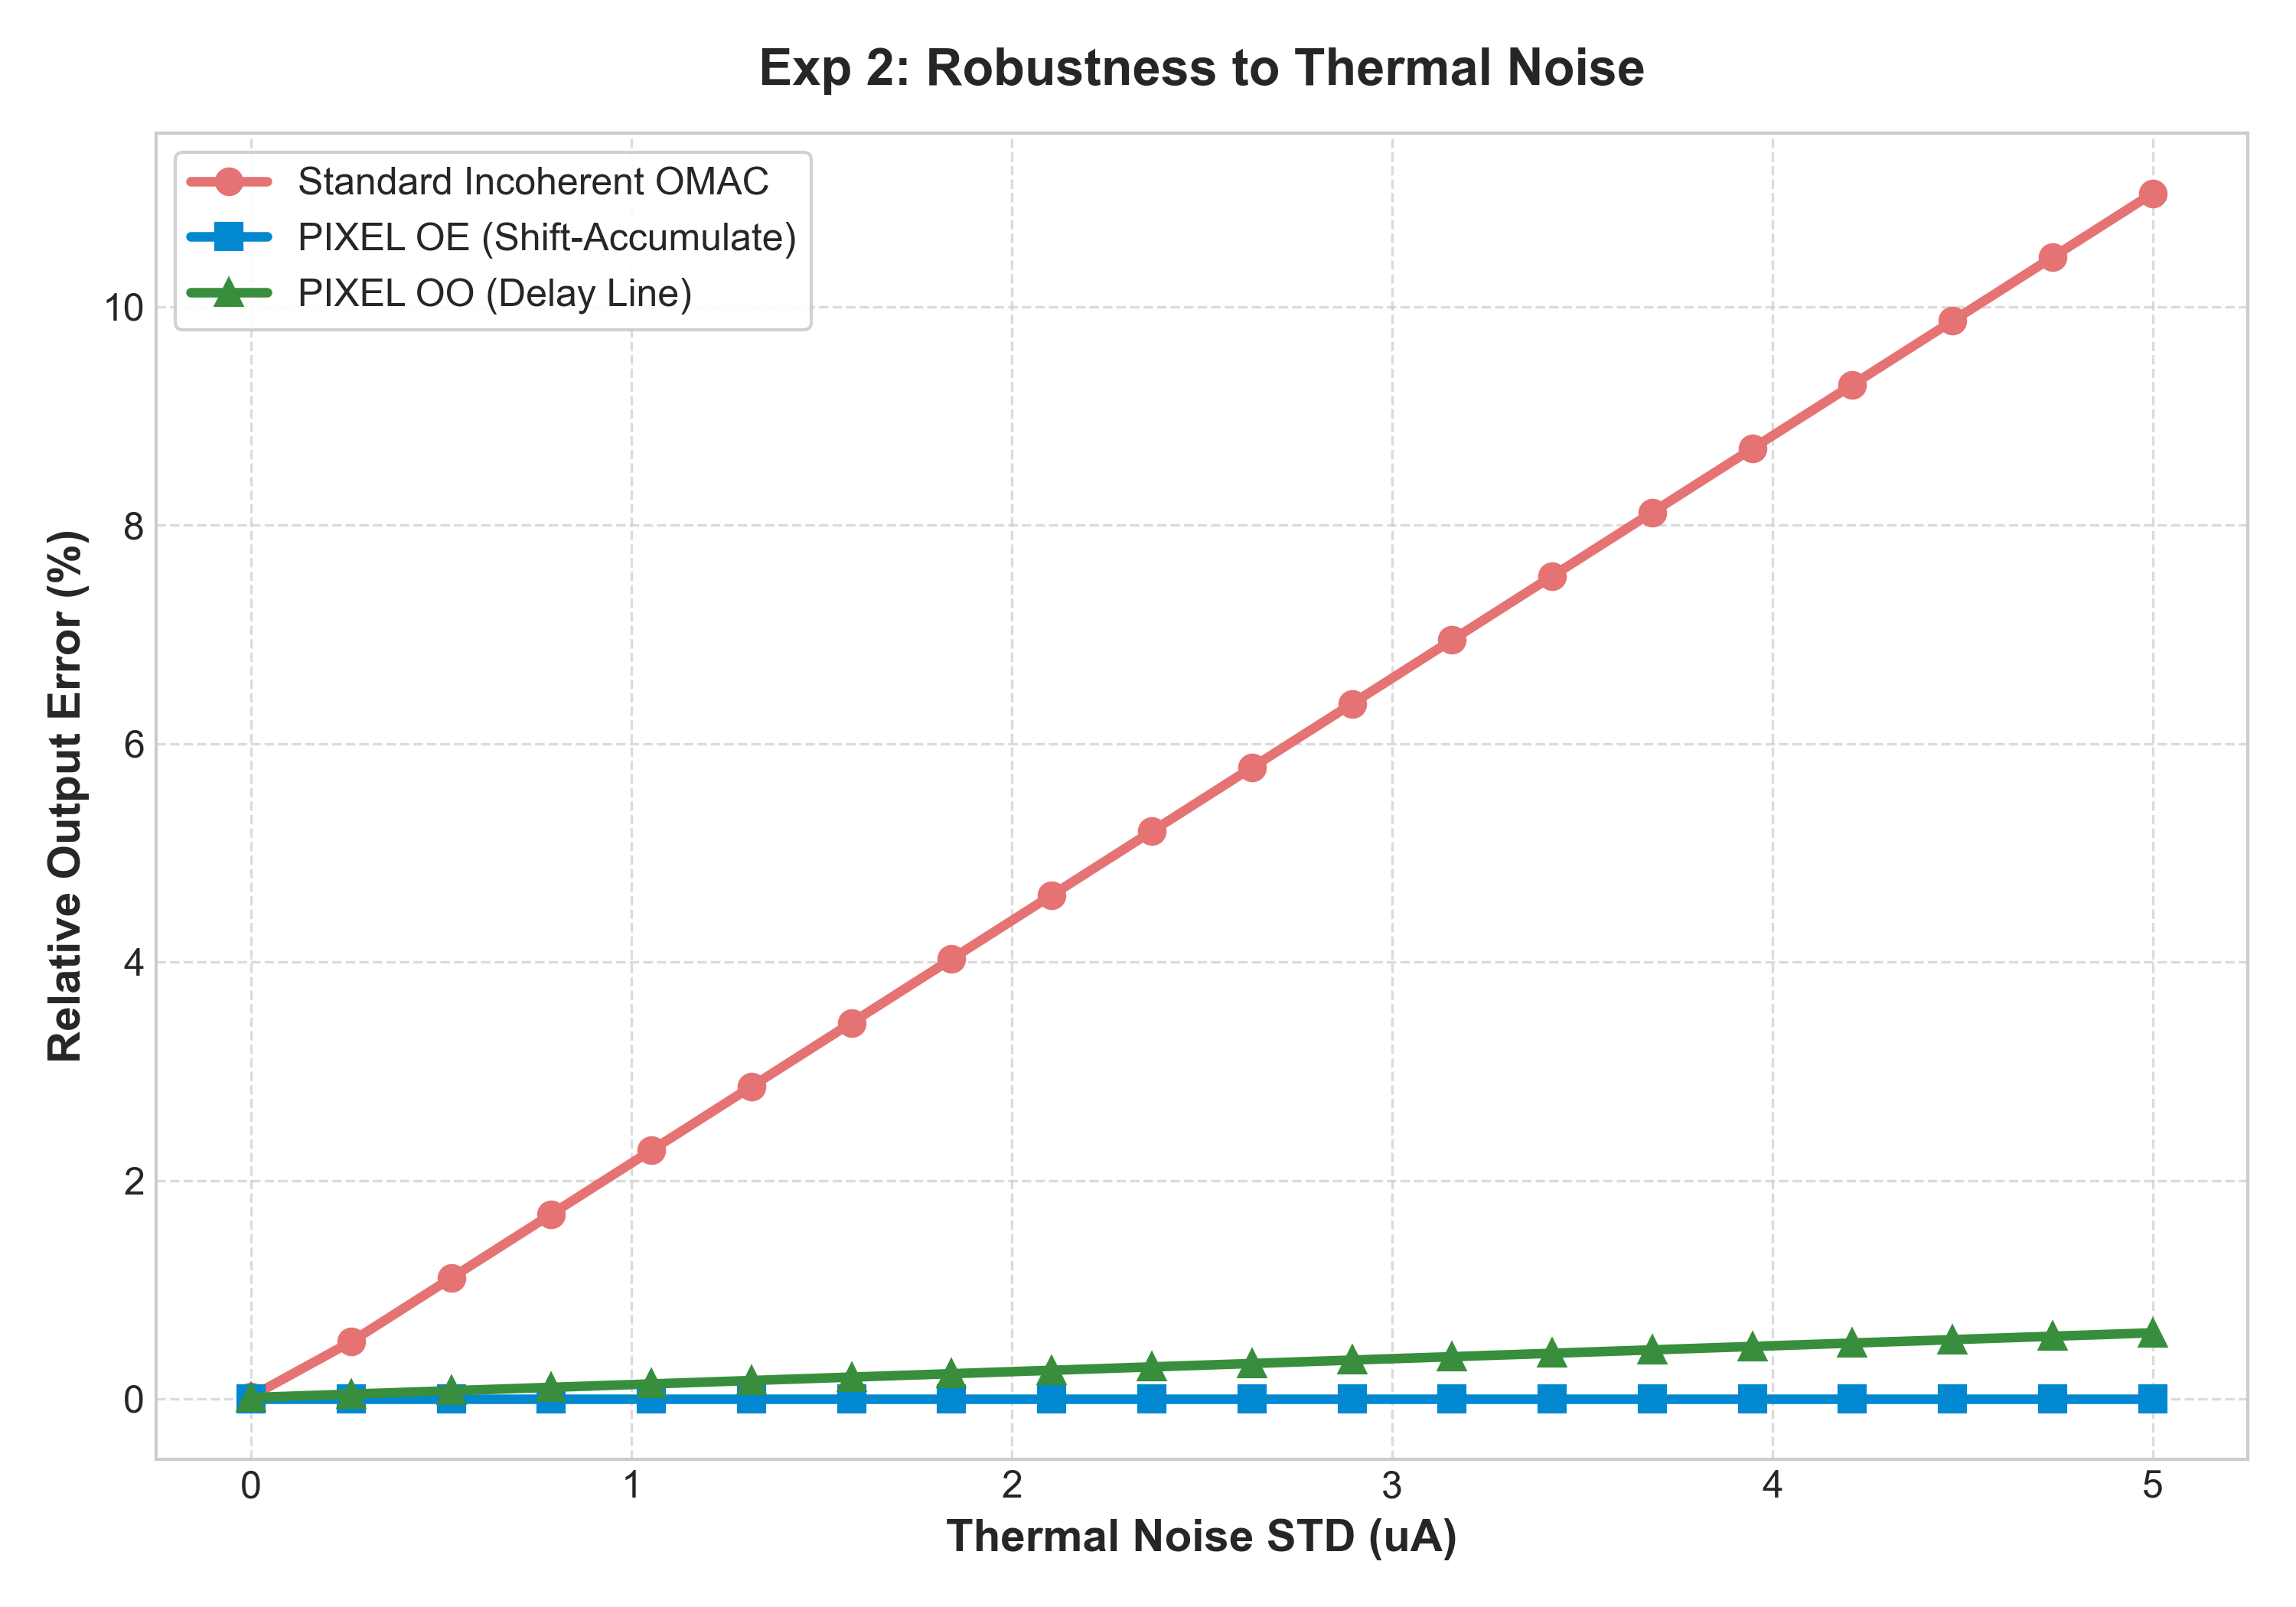
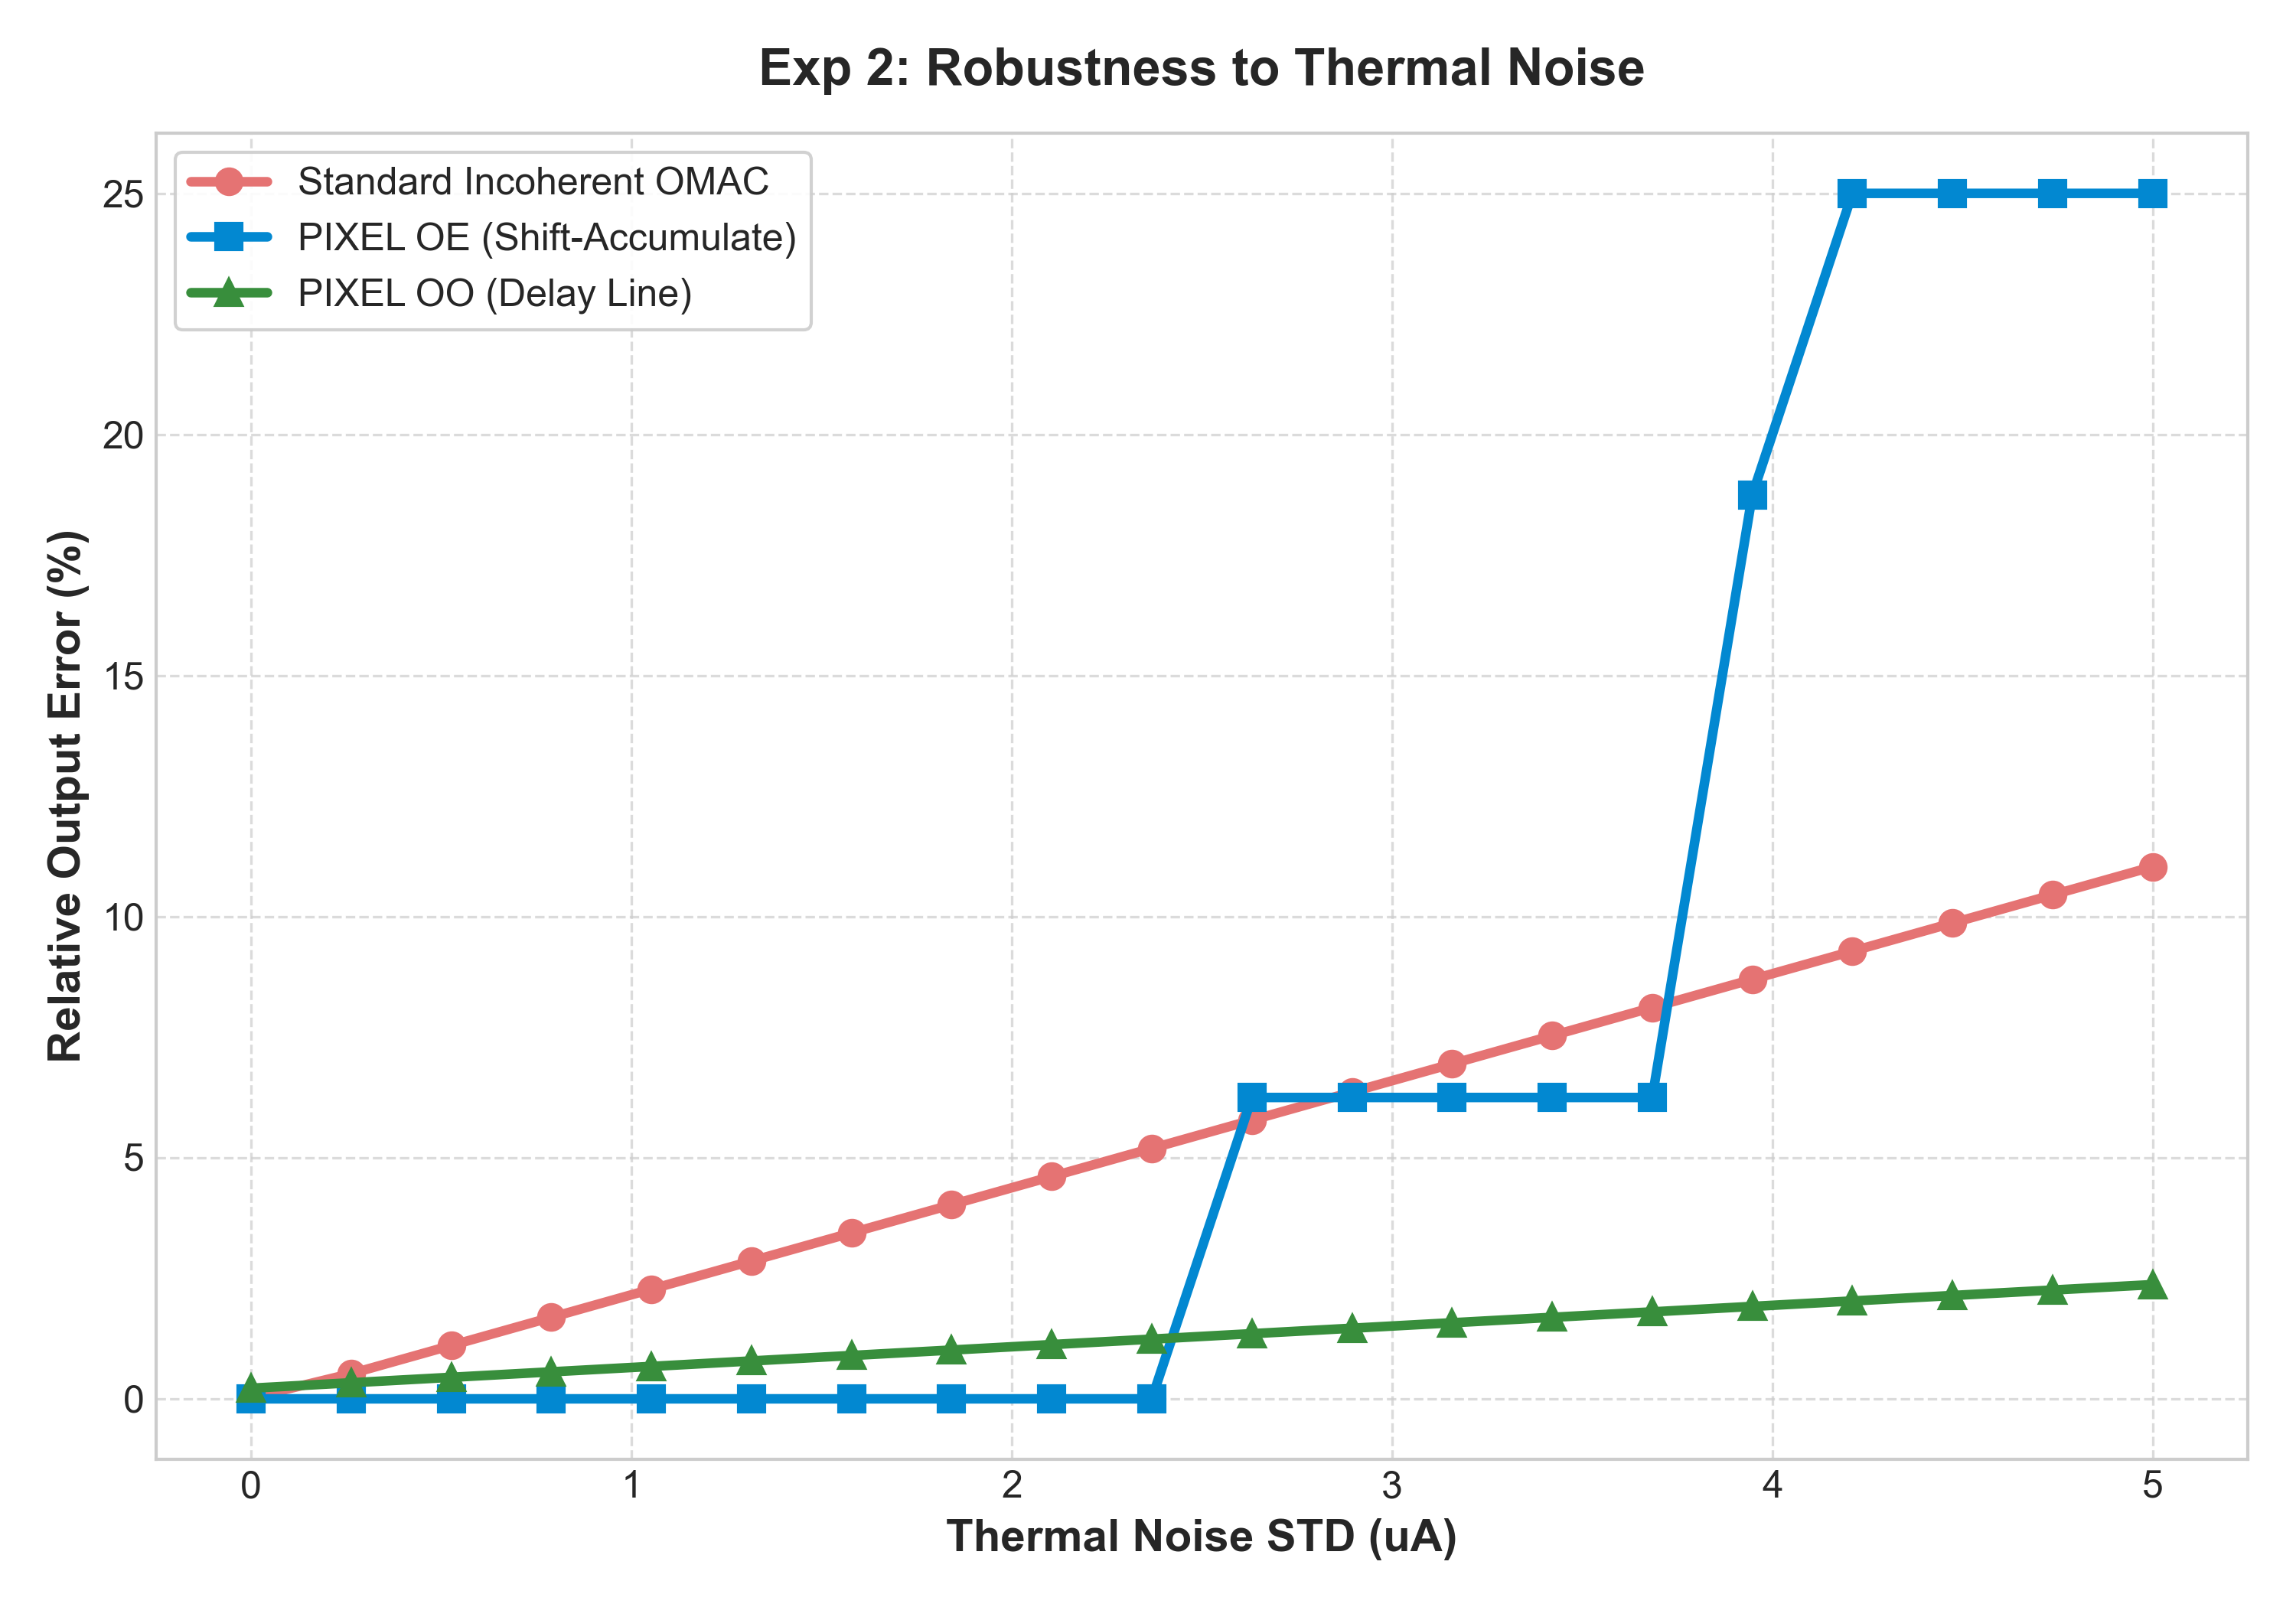
Waveguide loss incorporated

diff --git a/tests.py b/tests.py
@@ -22,6 +22,9 @@ from devices.photodetector import Photodetector
 from devices.waveguide import Waveguide
 from encoding import from_bits, to_bits
 from workloads.networks import SimpleMLP, SimpleCNN
+from pixel_arch.pixel_devices import PixelMRRConfig, ThresholdStrategy, pixel_optical_transmission
+from pixel_arch.omac import Pixel_OE_OMAC, Pixel_OO_OMAC
+from pixel_arch.metrics import PixelOEMetricsEngine, PixelOOMetricsEngine
 
 import random
 
@@ -287,6 +290,104 @@ def test_workloads() -> None:
 
 
 # ============================================================================
+# PIXEL Architecture Tests
+# ============================================================================
+
+def test_pixel_mrr_config() -> None:
+    from pixel_arch.pixel_devices import PixelMRRConfig, ThresholdStrategy
+    
+    # 1. FIXED strategy
+    cfg_fixed = PixelMRRConfig(threshold_strategy=ThresholdStrategy.FIXED, fixed_threshold=0.3)
+    assert cfg_fixed.get_dynamic_threshold() == 0.3
+    
+    # 2. MEAN_POWER strategy
+    cfg_mean = PixelMRRConfig(insertion_loss_db=0.0, extinction_ratio_db=20.0, threshold_strategy=ThresholdStrategy.MEAN_POWER)
+    expected_on = 1.0
+    expected_off = 0.01
+    assert abs(cfg_mean.get_dynamic_threshold() - (expected_on + expected_off) / 2.0) < 1e-7
+    
+    # 3. SCALED_ON strategy
+    cfg_scaled = PixelMRRConfig(insertion_loss_db=0.0, threshold_strategy=ThresholdStrategy.SCALED_ON, threshold_scale_factor=0.6)
+    assert abs(cfg_scaled.get_dynamic_threshold() - 0.6) < 1e-7
+
+
+def test_pixel_oe_omac() -> None:
+    from pixel_arch.omac import Pixel_OE_OMAC
+    from pixel_arch.pixel_devices import PixelMRRConfig
+    from devices.waveguide import Waveguide
+    
+    # Test valid binary inputs / weights
+    oe_omac = Pixel_OE_OMAC(pixel_mrr_config=PixelMRRConfig(thermal_drift_std_db=0.0))
+    res = oe_omac.compute_dot_product_analogue([15, 0], [15, 15], bitwidth=4)
+    assert res == 1.0
+    
+    # Test non-binary inputs/weights validation rejection
+    assert_raises(ValueError, oe_omac.compute_dot_product_analogue, [7], [15], bitwidth=4)
+    assert_raises(ValueError, oe_omac.compute_dot_product_analogue, [15], [7], bitwidth=4)
+    
+    # Test Loss vs No-Loss Simulation support
+    oe_ideal = Pixel_OE_OMAC(
+        pixel_mrr_config=PixelMRRConfig(insertion_loss_db=0.0, thermal_drift_std_db=0.0),
+        wg=Waveguide(loss_db_per_cm=0.0)
+    )
+    oe_lossy = Pixel_OE_OMAC(
+        pixel_mrr_config=PixelMRRConfig(insertion_loss_db=2.0, thermal_drift_std_db=0.5),
+        wg=Waveguide(loss_db_per_cm=2.0)
+    )
+    
+    res_ideal = oe_ideal.compute_dot_product_analogue([15], [15], bitwidth=4)
+    res_lossy = oe_lossy.compute_dot_product_analogue([15], [15], bitwidth=4)
+    assert res_ideal == 1.0
+    assert res_lossy in (0.0, 1.0)
+
+
+def test_pixel_oo_omac() -> None:
+    from pixel_arch.omac import Pixel_OO_OMAC
+    from pixel_arch.pixel_devices import PixelMRRConfig
+    from devices.waveguide import Waveguide
+    
+    oo_omac = Pixel_OO_OMAC(pixel_mrr_config=PixelMRRConfig(thermal_drift_std_db=0.0))
+    res = oo_omac.compute_dot_product_analogue([15, 0], [15, 15], bitwidth=4)
+    assert res > 0.0
+    
+    # Test validation rejection
+    assert_raises(ValueError, oo_omac.compute_dot_product_analogue, [7], [15], bitwidth=4)
+    
+    # Test Loss vs No-Loss Simulation support
+    oo_ideal = Pixel_OO_OMAC(
+        pixel_mrr_config=PixelMRRConfig(insertion_loss_db=0.0, thermal_drift_std_db=0.0),
+        wg=Waveguide(loss_db_per_cm=0.0)
+    )
+    oo_lossy = Pixel_OO_OMAC(
+        pixel_mrr_config=PixelMRRConfig(insertion_loss_db=2.0, thermal_drift_std_db=0.5),
+        wg=Waveguide(loss_db_per_cm=2.0)
+    )
+    res_ideal = oo_ideal.compute_dot_product_analogue([15], [15], bitwidth=4)
+    res_lossy = oo_lossy.compute_dot_product_analogue([15], [15], bitwidth=4)
+    assert res_ideal > 0.0
+    assert res_lossy >= 0.0
+
+
+def test_pixel_metrics() -> None:
+    from pixel_arch.omac import Pixel_OE_OMAC, Pixel_OO_OMAC
+    
+    oe_tile = ONNTile(num_omacs=4, clock_frequency_ghz=1, omac_template=Pixel_OE_OMAC())
+    oo_tile = ONNTile(num_omacs=4, clock_frequency_ghz=1, omac_template=Pixel_OO_OMAC())
+    
+    # Check InferenceEngine correctly selects the appropriate metrics engine
+    engine_oe = InferenceEngine(oe_tile, bitwidth=4)
+    engine_oo = InferenceEngine(oo_tile, bitwidth=4)
+    
+    assert engine_oe._metrics.arch_name == "PIXEL OE (Optoelectronic)"
+    assert engine_oo._metrics.arch_name == "PIXEL OO (All-Optical)"
+    
+    assert engine_oe._metrics.power_mw > 0
+    assert engine_oe._metrics.area_mm2 > 0
+    assert engine_oo._metrics.power_mw > 0
+    assert engine_oo._metrics.area_mm2 > 0
+
+
+# ============================================================================
 # Runner
 # ============================================================================
 
@@ -328,6 +429,11 @@ def run_all_tests() -> None:
         test_inference_cnn,
         # Workloads
         test_workloads,
+        # PIXEL sub-package
+        test_pixel_mrr_config,
+        test_pixel_oe_omac,
+        test_pixel_oo_omac,
+        test_pixel_metrics,
     ]
 
     passed = 0

diff --git a/pixel_arch/omac.py b/pixel_arch/omac.py
@@ -14,7 +14,7 @@ from devices.laser import Laser
 from devices.noise import NoiseConfig, add_shot_noise, add_thermal_noise
 from devices.photodetector import Photodetector
 from devices.waveguide import Waveguide
-from pixel_arch.pixel_devices import PixelMRRConfig, ThresholdStrategy
+from pixel_arch.pixel_devices import PixelMRRConfig, ThresholdStrategy, pixel_optical_transmission
 
 
 @dataclass(frozen=True)
@@ -42,12 +42,11 @@ class Pixel_OE_OMAC(OMAC):
         if max_val == 0:
             max_val = 1
 
-        on_power = 10 ** (-self.pixel_mrr_config.insertion_loss_db / 10)
-        off_power = on_power * 10 ** (-self.pixel_mrr_config.extinction_ratio_db / 10)
-
         dynamic_threshold_mw = self.pixel_mrr_config.get_dynamic_threshold()
+        # Scale expected threshold by laser power and waveguide loss to be physically consistent
+        threshold_power_mw = self.signal_path_single(laser_power, dynamic_threshold_mw)
         # Convert the optical power threshold to an expected photocurrent threshold
-        threshold_ua = self.pd.get_photocurrent_ua(dynamic_threshold_mw)
+        threshold_ua = self.pd.get_photocurrent_ua(threshold_power_mw)
 
         total_electrical_sum = 0.0
 
@@ -55,10 +54,21 @@ class Pixel_OE_OMAC(OMAC):
             inp_norm = inp / max_val
             wt_norm = wt / max_val
 
+            # Validate that inputs and weights are strictly binary (0 or 1 at the physical level)
+            if inp_norm not in (0.0, 1.0) or wt_norm not in (0.0, 1.0):
+                raise ValueError(
+                    f"Pixel_OE_OMAC only supports binary (0 or 1) inputs and weights "
+                    f"at the normalized level. Got input={inp} (normalized {inp_norm}) "
+                    f"and weight={wt} (normalized {wt_norm}) with bitwidth={bitwidth}."
+                )
+
+            input_bit = 1 if inp_norm == 1.0 else 0
+            weight_bit = 1 if wt_norm == 1.0 else 0
+
             input_power = laser_power * inp_norm
-            # Use idealized transmission here, thermal drift is handled in the device function if used directly, 
-            # but for analogue MVM we use the formula. Let's add drift if needed, or keep it simple.
-            mrr_trans = off_power + wt_norm * (on_power - off_power)
+            
+            # Incorporate physical transmission with drift
+            mrr_trans = pixel_optical_transmission(input_bit, weight_bit, self.pixel_mrr_config, rng)
             
             pwr = self.signal_path_single(input_power, mrr_trans)
 
@@ -74,7 +84,7 @@ class Pixel_OE_OMAC(OMAC):
             # TIA Decision (Digitization)
             bit_value = 1 if photocurrent_ua >= threshold_ua else 0
 
-            # Electrical Accumulation (Shift-Accumulate via CLA in reality, standard sum here)
+            # Electrical Accumulation
             total_electrical_sum += bit_value
 
         return total_electrical_sum
@@ -105,9 +115,6 @@ class Pixel_OO_OMAC(OMAC):
         if max_val == 0:
             max_val = 1
 
-        on_power = 10 ** (-self.pixel_mrr_config.insertion_loss_db / 10)
-        off_power = on_power * 10 ** (-self.pixel_mrr_config.extinction_ratio_db / 10)
-
         # MZI Delay Line Simulation (Queue)
         # In the PIXEL paper, light pulses are delayed by mz_delay = c/(n*f) - d_mzi
         # We abstract this by having a cycle-accurate delay queue.
@@ -119,8 +126,21 @@ class Pixel_OO_OMAC(OMAC):
             inp_norm = inp / max_val
             wt_norm = wt / max_val
 
+            # Validate that inputs and weights are strictly binary (0 or 1 at the physical level)
+            if inp_norm not in (0.0, 1.0) or wt_norm not in (0.0, 1.0):
+                raise ValueError(
+                    f"Pixel_OO_OMAC only supports binary (0 or 1) inputs and weights "
+                    f"at the normalized level. Got input={inp} (normalized {inp_norm}) "
+                    f"and weight={wt} (normalized {wt_norm}) with bitwidth={bitwidth}."
+                )
+
+            input_bit = 1 if inp_norm == 1.0 else 0
+            weight_bit = 1 if wt_norm == 1.0 else 0
+
             input_power = laser_power * inp_norm
-            mrr_trans = off_power + wt_norm * (on_power - off_power)
+            
+            # Incorporate physical transmission with drift
+            mrr_trans = pixel_optical_transmission(input_bit, weight_bit, self.pixel_mrr_config, rng)
             
             pwr = self.signal_path_single(input_power, mrr_trans)
             

diff --git a/workloads/networks.py b/workloads/networks.py
@@ -30,6 +30,16 @@ class SimpleCNN:
 
     @classmethod
     def get_simple_cnn(cls) -> "SimpleCNN":
+        """A simple Convolutional Neural Network.
+        
+        Note on Dimension Propagation:
+        Under pure conv mapping, a 28x28 input with kernel_size=3 outputs a 26x26 map.
+        The second layer expects 14x14 input. This transition implicitly assumes a 2x2
+        MaxPooling layer with padding (or a stride/padding combination) that reduces 26x26 -> 14x14.
+        Likewise, the second layer (14x14, kernel_size=3) outputs 12x12. The first linear layer
+        expects 32 * 5 * 5 (5x5 spatial resolution), which implicitly assumes another MaxPooling
+        step (or pooling + padding) reducing 12x12 -> 5x5.
+        """
         return cls(
             conv_layers=[
                 Conv2DLayer(in_channels=1, out_channels=16, kernel_size=3, input_spatial_size=28),
@@ -43,11 +53,17 @@ class SimpleCNN:
 
     @classmethod
     def get_medmnist_cnn(cls, in_channels: int = 3, num_classes: int = 10) -> "SimpleCNN":
-        """A slightly larger CNN for 28x28x3 MedMNIST datasets."""
+        """A slightly larger CNN for 28x28x3 MedMNIST datasets.
+        
+        Note on Dimension Propagation:
+        Like get_simple_cnn(), this network implicitly assumes 2x2 MaxPooling and padding
+        steps to transition spatial feature maps from 26x26 -> 14x14 and from 12x12 -> 5x5.
+        """
         return cls(
             conv_layers=[
                 Conv2DLayer(in_channels=in_channels, out_channels=32, kernel_size=3, input_spatial_size=28),
                 Conv2DLayer(in_channels=32, out_channels=64, kernel_size=3, input_spatial_size=14),
+                # Outputs 12x12 -> pooled to 5x5
             ],
             linear_layers=[
                 LinearLayer(in_features=64 * 5 * 5, out_features=128),

diff --git a/accelerator/inference.py b/accelerator/inference.py
@@ -75,7 +75,19 @@ class InferenceEngine:
         if isinstance(tile, MZITile):
             self._metrics = MZIMetricsEngine(tile).evaluate()
         else:
-            self._metrics = MetricsEngine(tile).evaluate()
+            # Check if tile uses PIXEL OMAC templates to select the correct metrics engine
+            try:
+                from pixel_arch.omac import Pixel_OE_OMAC, Pixel_OO_OMAC
+                from pixel_arch.metrics import PixelOEMetricsEngine, PixelOOMetricsEngine
+                
+                if isinstance(tile.omac_template, Pixel_OE_OMAC):
+                    self._metrics = PixelOEMetricsEngine(tile).evaluate()
+                elif isinstance(tile.omac_template, Pixel_OO_OMAC):
+                    self._metrics = PixelOOMetricsEngine(tile).evaluate()
+                else:
+                    self._metrics = MetricsEngine(tile).evaluate()
+            except ImportError:
+                self._metrics = MetricsEngine(tile).evaluate()
 
     def run_mlp(self, mlp) -> InferenceResult:
         """Run inference for a SimpleMLP workload."""

diff --git a/pixel_arch/metrics.py b/pixel_arch/metrics.py
@@ -47,8 +47,9 @@ class PixelOEMetricsEngine:
         # Comparators use less power than high-res ADCs
         comparator_power_mw = total_comparators * (0.1 * self.tile.clock_frequency_ghz)
         adder_power_mw = total_adders * (0.05 * self.tile.clock_frequency_ghz)
+        tia_power_mw = total_pds * (omac.tia.energy_per_bit_pj * self.tile.clock_frequency_ghz)
         
-        total_power_mw = laser_power_mw + dac_power_mw + comparator_power_mw + adder_power_mw
+        total_power_mw = laser_power_mw + dac_power_mw + comparator_power_mw + adder_power_mw + tia_power_mw
 
         throughput_tops = self.tile.get_peak_tops()
 
@@ -110,8 +111,11 @@ class PixelOOMetricsEngine:
         laser_power_mw = total_lasers * omac.laser.electrical_power_mw
         dac_power_mw = total_lasers * (omac.dac.energy_per_conversion_pj * self.tile.clock_frequency_ghz)
         adc_power_mw = total_pds * (omac.adc.energy_per_conversion_pj * self.tile.clock_frequency_ghz)
+        tia_power_mw = total_pds * (omac.tia.energy_per_bit_pj * self.tile.clock_frequency_ghz)
+        # Static phase shifter power for delay line MZIs (2 phase shifters per MZI at 5.0 mW each)
+        mzi_power_mw = total_mzis * 2 * 5.0
         
-        total_power_mw = laser_power_mw + dac_power_mw + adc_power_mw
+        total_power_mw = laser_power_mw + dac_power_mw + adc_power_mw + tia_power_mw + mzi_power_mw
 
         throughput_tops = self.tile.get_peak_tops()
 

diff --git a/accelerator/metrics.py b/accelerator/metrics.py
@@ -123,7 +123,8 @@ class MZIMetricsEngine:
         phase_shifter_power_mw = omac.phase_shifter_power_mw() * num_omacs
         dac_power_mw = total_lasers * (omac.dac.energy_per_conversion_pj * self.tile.clock_frequency_ghz)
         adc_power_mw = total_pds * (omac.adc.energy_per_conversion_pj * self.tile.clock_frequency_ghz)
-        total_power_mw = laser_power_mw + phase_shifter_power_mw + dac_power_mw + adc_power_mw
+        tia_power_mw = total_pds * (omac.tia.energy_per_bit_pj * self.tile.clock_frequency_ghz)
+        total_power_mw = laser_power_mw + phase_shifter_power_mw + dac_power_mw + adc_power_mw + tia_power_mw
 
         # Performance
         throughput_tops = self.tile.get_peak_tops()